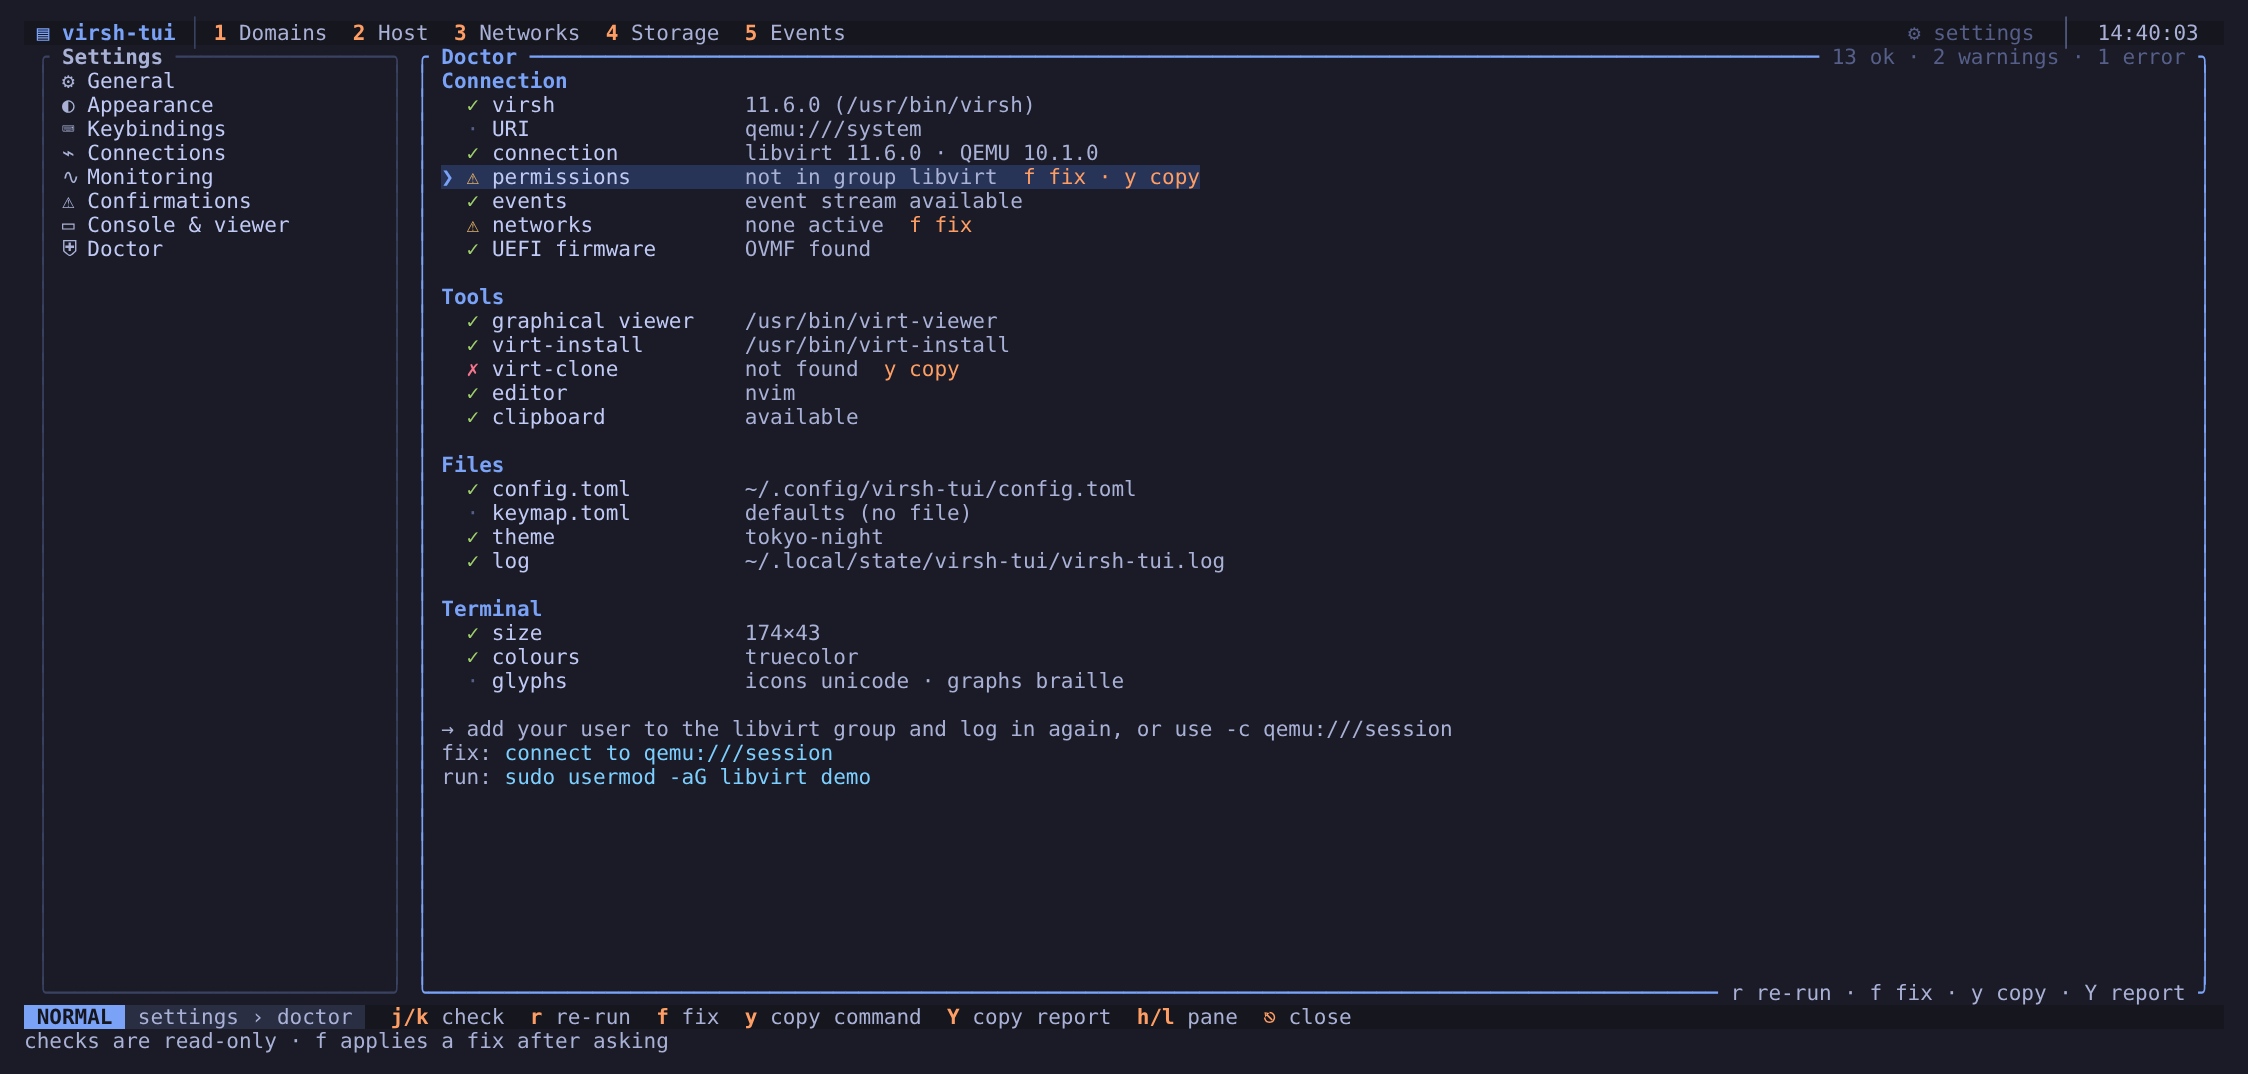
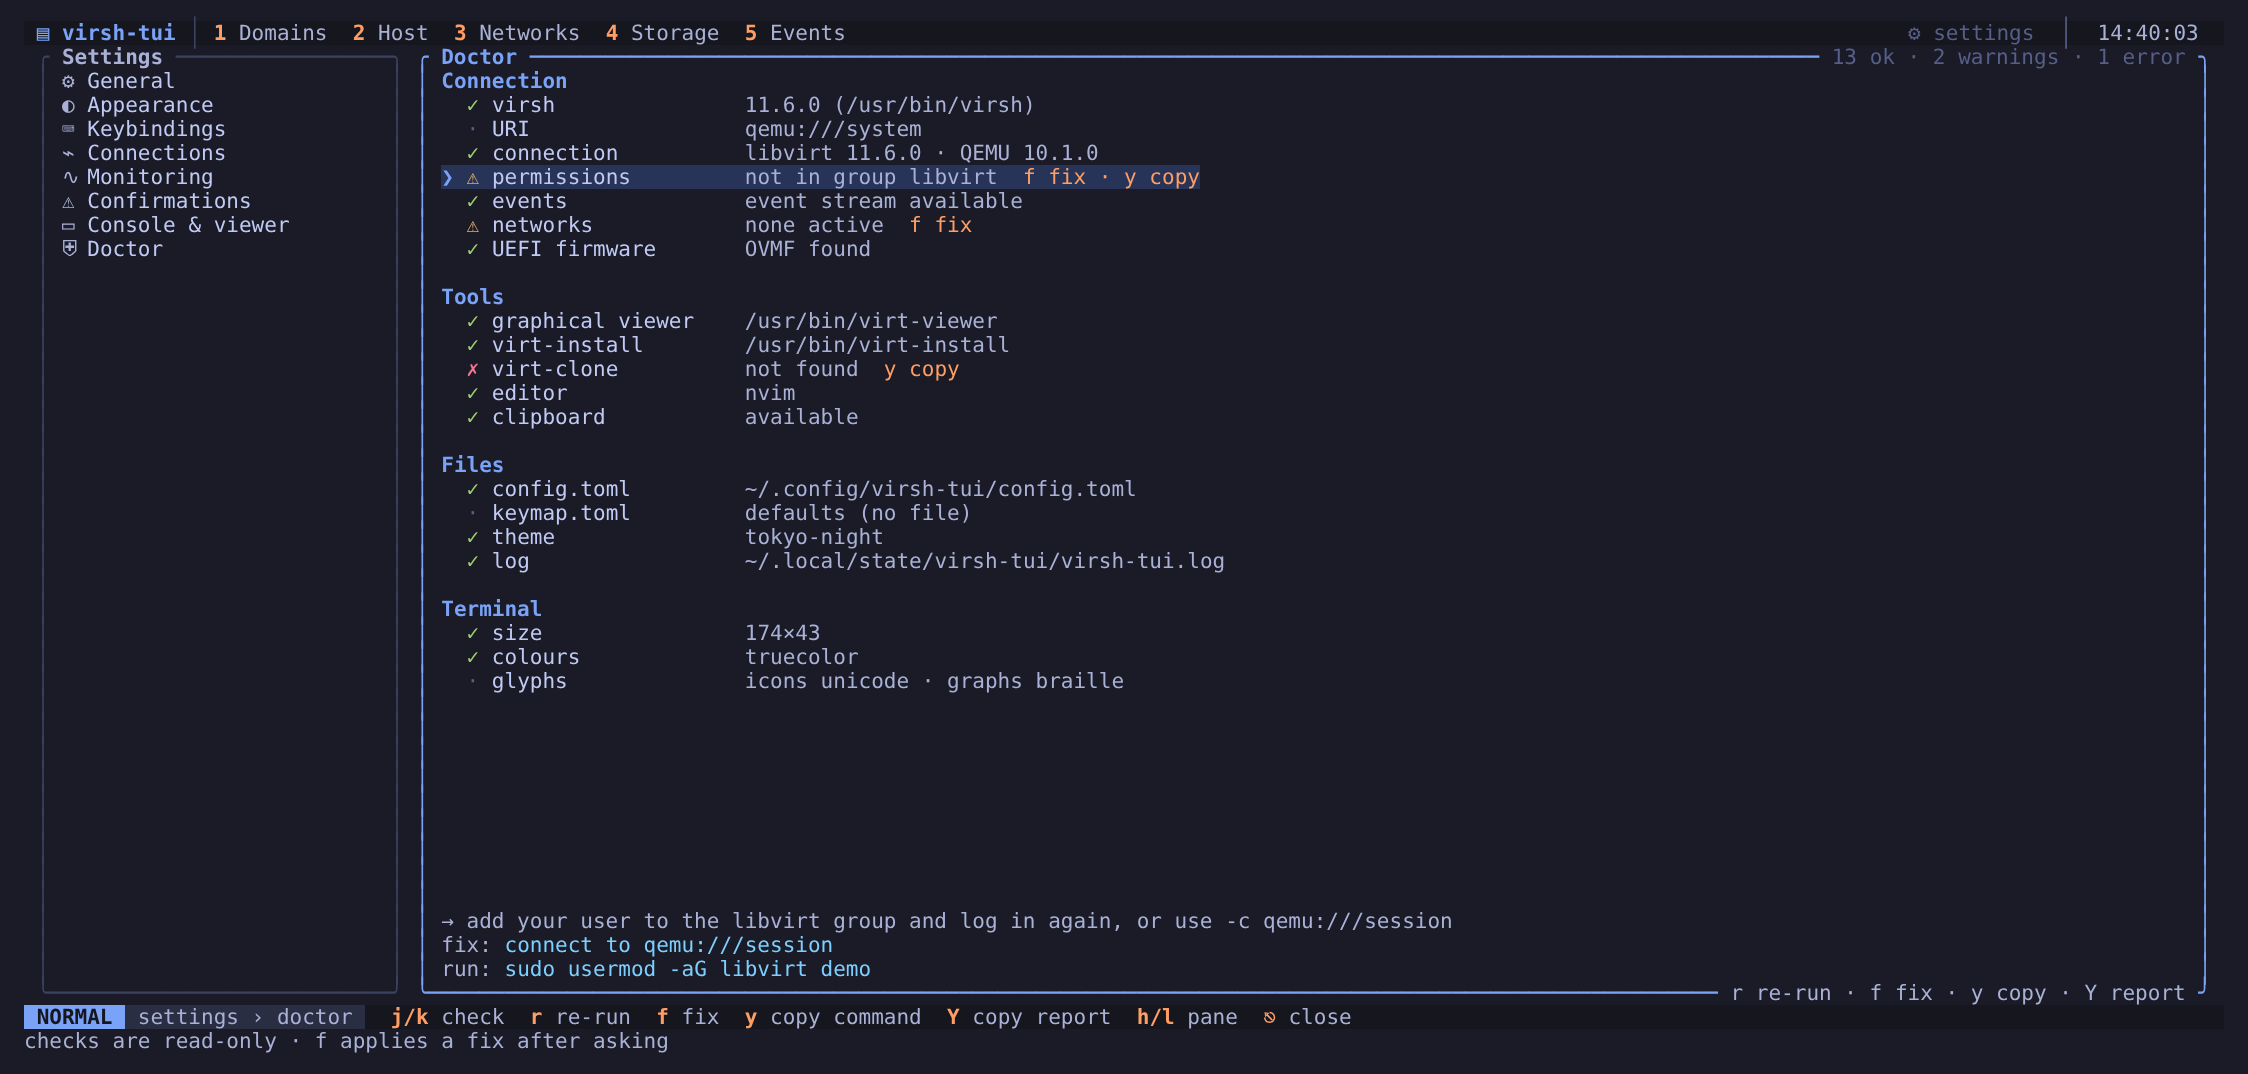
fix(doctor): own process group for checks, pinned hint strip, confirm the asked fix, no system daemon command for session URIs

diff --git a/src/app/settings_doctor.rs b/src/app/settings_doctor.rs
@@ -24,7 +24,7 @@ impl App {
         let doc = &mut st.doctor;
         if let Some(pending) = doc.pending.take() {
             match key.code {
-                KeyCode::Char('y') if key.modifiers.is_empty() => self.apply_doctor_fix(pending.index),
+                KeyCode::Char('y') if key.modifiers.is_empty() => self.apply_doctor_fix(pending.fix),
                 KeyCode::Char('n') | KeyCode::Esc => {}
                 _ => doc.pending = Some(pending),
             }
@@ -58,18 +58,17 @@ impl App {
                     ));
                     return true;
                 }
-                let index = doc.selected;
                 let question = match &fix {
                     Fix::Set { key, value } => format!("Set {key} to {value}?"),
                     Fix::Connect(uri) => format!("Connect to {uri}?"),
                     // The confirm modal and the editor ask by themselves.
                     Fix::Virsh(_) | Fix::Edit(_) => {
-                        self.apply_doctor_fix(index);
+                        self.apply_doctor_fix(fix);
                         return true;
                     }
                 };
                 doc.message = None;
-                doc.pending = Some(PendingFix { index, question });
+                doc.pending = Some(PendingFix { fix, question });
             }
             _ => return false,
         }
@@ -82,17 +81,8 @@ impl App {
         }
     }
 
-    /// Apply the fix of check `index` (already confirmed for Set/Connect).
-    fn apply_doctor_fix(&mut self, index: usize) {
-        let Some(fix) = self
-            .settings
-            .as_ref()
-            .and_then(|st| st.doctor.report.as_ref())
-            .and_then(|r| r.checks.get(index))
-            .and_then(|c| c.fix.clone())
-        else {
-            return;
-        };
+    /// Apply `fix` (already confirmed for Set/Connect).
+    fn apply_doctor_fix(&mut self, fix: Fix) {
         match fix {
             Fix::Set { key, value } => {
                 let message = if self.demo {
@@ -540,5 +530,42 @@ mod tests {
             .join("\n");
         assert!(text.contains("virsh net-start default"), "{text}");
         assert!(text.contains("y fix"), "{text}");
+    }
+
+    #[tokio::test]
+    async fn doctor_hint_visible_on_short_terminals() {
+        let mut app = on_doctor_pane().await;
+        select(&mut app, "permissions");
+        for (w, h) in [(100, 28), (80, 24), (174, 20), (60, 20)] {
+            let text = render(&app, w, h);
+            assert!(text.contains("❯ ⚠ permissions"), "{w}x{h} row\n{text}");
+            assert!(text.contains("run: sudo usermod"), "{w}x{h} command\n{text}");
+            assert!(text.contains("fix: connect to"), "{w}x{h} fix\n{text}");
+        }
+        select(&mut app, "glyphs");
+        let text = render(&app, 80, 24);
+        assert!(text.contains("❯ · glyphs"), "last row\n{text}");
+    }
+
+    #[tokio::test]
+    async fn confirmed_fix_survives_a_rerun() {
+        // A re-run can land between `f` and `y`: `y` applies what was asked.
+        let mut app = on_doctor_pane().await;
+        app.config.appearance.theme = String::from("nope");
+        let uri = app.uri.clone();
+        let st = &mut app.settings.as_mut().unwrap().doctor;
+        st.report.as_mut().unwrap().checks[0].fix = Some(Fix::Set {
+            key: "theme",
+            value: String::from("tokyo-night"),
+        });
+        app.on_key(key('f')).await;
+        let st = &mut app.settings.as_mut().unwrap().doctor;
+        st.report.as_mut().unwrap().checks[0].fix = Some(Fix::Connect(String::from("qemu:///session")));
+        app.on_key(key('y')).await;
+        assert_eq!(app.uri, uri, "the other fix must not run");
+        assert_eq!(
+            doctor(&app).message.as_deref(),
+            Some("set theme=tokyo-night · demo: not saved")
+        );
     }
 }

diff --git a/src/doctor/runner.rs b/src/doctor/runner.rs
@@ -81,16 +81,38 @@ fn is_executable(path: &Path) -> bool {
     std::fs::metadata(path).is_ok_and(|m| m.is_file() && m.permissions().mode() & 0o111 != 0)
 }
 
-/// Run `program args` without a shell, stdin closed, killed after `limit`.
+/// Run `program args` without a shell, stdin closed, in its own process
+/// group (an `ssh` started by virsh must not reach the TUI's terminal); after
+/// `limit` the whole group is killed.
 pub(crate) async fn run_with_timeout(program: &str, args: &[&str], limit: Duration) -> RunOutcome {
     let child = tokio::process::Command::new(program)
         .args(args)
         .stdin(std::process::Stdio::null())
+        .stdout(std::process::Stdio::piped())
+        .stderr(std::process::Stdio::piped())
+        .process_group(0)
         .kill_on_drop(true)
-        .output();
-    match tokio::time::timeout(limit, child).await {
-        Err(_) => RunOutcome::Timeout,
-        Ok(Err(e)) if e.kind() == std::io::ErrorKind::NotFound => RunOutcome::NotFound,
+        .spawn();
+    let child = match child {
+        Ok(child) => child,
+        Err(e) if e.kind() == std::io::ErrorKind::NotFound => return RunOutcome::NotFound,
+        Err(e) => {
+            return RunOutcome::Exited {
+                success: false,
+                stdout: String::new(),
+                stderr: e.to_string(),
+            };
+        }
+    };
+    let pgid = child.id().and_then(|id| i32::try_from(id).ok());
+    match tokio::time::timeout(limit, child.wait_with_output()).await {
+        Err(_) => {
+            if let Some(pgid) = pgid {
+                // SAFETY: plain syscall; a negative pid addresses the group we created.
+                unsafe { libc::kill(-pgid, libc::SIGKILL) };
+            }
+            RunOutcome::Timeout
+        }
         Ok(Err(e)) => RunOutcome::Exited {
             success: false,
             stdout: String::new(),
@@ -104,7 +126,6 @@ pub(crate) async fn run_with_timeout(program: &str, args: &[&str], limit: Durati
     }
 }
 
-/// Scripted runner for tests: unknown programs are `NotFound`.
 #[cfg(test)]
 #[derive(Default)]
 pub struct FakeRunner {
@@ -234,5 +255,39 @@ mod system_tests {
 
     async fn run_short(program: &str, args: &[&str]) -> RunOutcome {
         run_with_timeout(program, args, Duration::from_millis(200)).await
+    }
+
+    #[tokio::test]
+    async fn children_get_their_own_process_group() {
+        let ours = unsafe { libc::getpgrp() };
+        match run_with_timeout("sh", &["-c", "ps -o pgid= -p $$"], Duration::from_secs(2)).await {
+            RunOutcome::Exited { stdout, .. } => {
+                let theirs: i32 = stdout.trim().parse().unwrap();
+                assert_ne!(theirs, ours, "child must not share the TUI's process group");
+            }
+            other => panic!("{other:?}"),
+        }
+    }
+
+    #[tokio::test]
+    async fn timeout_kills_grandchildren() {
+        let dir = tempfile::tempdir().unwrap();
+        let pid_file = dir.path().join("pid");
+        let script = format!("sleep 30 & echo $! > {}; wait", pid_file.display());
+        assert_eq!(
+            run_with_timeout("sh", &["-c", &script], Duration::from_millis(300)).await,
+            RunOutcome::Timeout
+        );
+        let pid = std::fs::read_to_string(&pid_file).unwrap().trim().to_string();
+        tokio::time::sleep(Duration::from_millis(200)).await;
+        let stat = std::fs::read_to_string(format!("/proc/{pid}/stat")).unwrap_or_default();
+        let state = stat
+            .rsplit(')')
+            .next()
+            .unwrap_or("")
+            .split_whitespace()
+            .next()
+            .unwrap_or("");
+        assert!(stat.is_empty() || state == "Z", "grandchild still alive: {stat}");
     }
 }

diff --git a/src/ui/views/settings_doctor.rs b/src/ui/views/settings_doctor.rs
@@ -15,7 +15,8 @@ use crate::theme::Theme;
 /// A fix waiting for `y`/`n`.
 #[derive(Debug, Clone, PartialEq)]
 pub struct PendingFix {
-    pub index: usize,
+    /// The fix that was asked about (a re-run may change the rows meanwhile).
+    pub fix: crate::doctor::Fix,
     pub question: String,
 }
 
@@ -105,9 +106,13 @@ pub fn render(frame: &mut Frame, theme: &Theme, state: &SettingsState, area: Rec
         footer,
     );
     let inner = block.inner(area);
+    frame.render_widget(block, area);
     let label_width = if compact { 17 } else { 20 };
     let mut lines: Vec<Line> = Vec::new();
     let mut selected_line = 0;
+    // Hint, fix and command of the selected row: a fixed strip at the bottom
+    // so they stay visible however short the terminal is.
+    let mut detail: Vec<Line<'static>> = Vec::new();
     match &st.report {
         None => lines.push(Line::from(Span::styled("◌ checking…", theme.secondary()))),
         Some(report) => {
@@ -157,18 +162,17 @@ pub fn render(frame: &mut Frame, theme: &Theme, state: &SettingsState, area: Rec
                 );
             }
             if focused && let Some(check) = st.current() {
-                lines.push(Line::from(""));
                 if let Some(hint) = &check.hint {
-                    lines.push(Line::from(Span::styled(format!("→ {hint}"), theme.secondary())));
+                    detail.push(Line::from(Span::styled(format!("→ {hint}"), theme.secondary())));
                 }
                 if let Some(fix) = &check.fix {
-                    lines.push(Line::from(vec![
+                    detail.push(Line::from(vec![
                         Span::styled("fix: ", theme.secondary()),
                         Span::styled(fix.describe(), Style::default().fg(t.cyan)),
                     ]));
                 }
                 if let Some(command) = &check.command {
-                    lines.push(Line::from(vec![
+                    detail.push(Line::from(vec![
                         Span::styled("run: ", theme.secondary()),
                         Span::styled(command.clone(), Style::default().fg(t.cyan)),
                     ]));
@@ -176,13 +180,24 @@ pub fn render(frame: &mut Frame, theme: &Theme, state: &SettingsState, area: Rec
             }
         }
     }
-    let start = selected_line.saturating_sub(inner.height.saturating_sub(6) as usize);
+    let detail = crate::ui::widgets::review::wrap_lines(detail, inner.width);
+    // Keep at least three list rows; the strip takes the rest it needs (+1 gap).
+    let strip = if detail.is_empty() {
+        0
+    } else {
+        (detail.len() as u16 + 1).min(inner.height.saturating_sub(3))
+    };
+    let list_area = Rect::new(inner.x, inner.y, inner.width, inner.height - strip);
+    let list_height = list_area.height as usize;
+    let start = (selected_line + 1).saturating_sub(list_height);
     frame.render_widget(
         Paragraph::new(lines)
             .scroll((start.min(u16::MAX as usize) as u16, 0))
-            .wrap(ratatui::widgets::Wrap { trim: false })
-            .block(block)
             .style(theme.base()),
-        area,
+        list_area,
     );
+    if strip > 0 {
+        let strip_area = Rect::new(inner.x, inner.y + list_area.height + 1, inner.width, strip - 1);
+        frame.render_widget(Paragraph::new(detail).style(theme.base()), strip_area);
+    }
 }

diff --git a/src/doctor/checks.rs b/src/doctor/checks.rs
@@ -165,7 +165,7 @@ pub async fn run_all<R: Runner>(ctx: &Ctx, runner: &R) -> Vec<Check> {
                         .hint(hint)
                         .fix(Fix::Connect(String::from("qemu:///session")))
                         .command_opt(usermod.clone()),
-                    Some(hint @ "is libvirtd running?") if local => {
+                    Some(hint @ "is libvirtd running?") if system => {
                         check.hint(hint).command(daemon_command(runner))
                     }
                     Some(hint) => check.hint(hint),
@@ -971,5 +971,20 @@ pub(crate) mod tests {
             (e.status, e.value.as_str()),
             (Status::Ok, "event stream available")
         );
+    }
+
+    #[test]
+    fn session_daemon_down_has_no_system_command() {
+        // The session daemon is per user: `sudo systemctl` would be wrong.
+        let uri = "qemu:///session";
+        let mut r = healthy(uri);
+        r.fail(
+            &format!("virsh -c {uri} version"),
+            "error: failed to connect to socket '/run/user/1000/libvirt/virtqemud-sock'",
+        );
+        let c = run_sync(&ctx(uri), &r);
+        let conn = get(&c, "connection");
+        assert_eq!(conn.hint.as_deref(), Some("is libvirtd running?"));
+        assert_eq!(conn.command, None);
     }
 }
